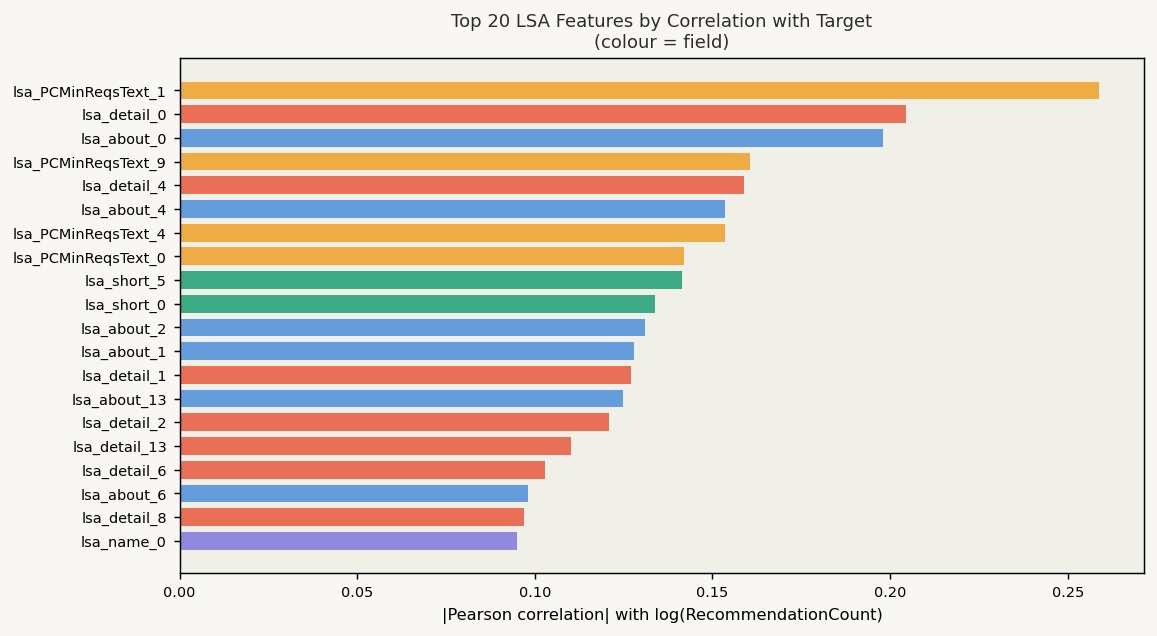
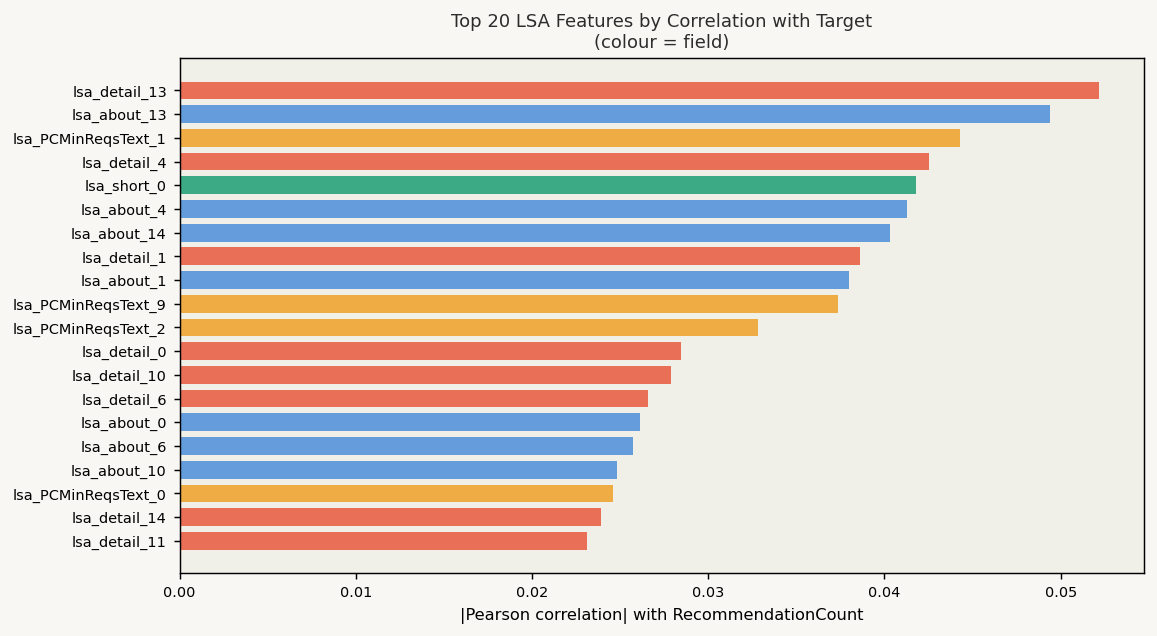
removed log for the target in nlp code

diff --git a/utils/nlp_text_features.py b/utils/nlp_text_features.py
@@ -361,7 +361,7 @@ print("Saved: plot_nlp_06_lsa_train_vs_test.png")
 # ── Plot 7: Top LSA features correlated with target ───────────────
 if 'RecommendationCount' in df.columns:
     target_s = pd.Series(
-        np.log1p(df['RecommendationCount'].iloc[idx_train]).values,
+        (df['RecommendationCount'].iloc[idx_train]).values,
         index=nlp_train.index
     )
     corrs = nlp_train.corrwith(target_s).abs().sort_values(ascending=False)
@@ -378,7 +378,7 @@ if 'RecommendationCount' in df.columns:
     ax.barh(range(len(top20)), top20.values[::-1], color=bar_colors, alpha=0.85, height=0.75)
     ax.set_yticks(range(len(top20)))
     ax.set_yticklabels(top20.index[::-1], fontsize=8)
-    ax.set_xlabel('|Pearson correlation| with log(RecommendationCount)', fontsize=9)
+    ax.set_xlabel('|Pearson correlation| with RecommendationCount', fontsize=9)
     ax.set_title('Top 20 LSA Features by Correlation with Target\n(colour = field)',
                  fontsize=10, fontweight='500', color='#2C2C2A')
     ax.tick_params(labelsize=8)
